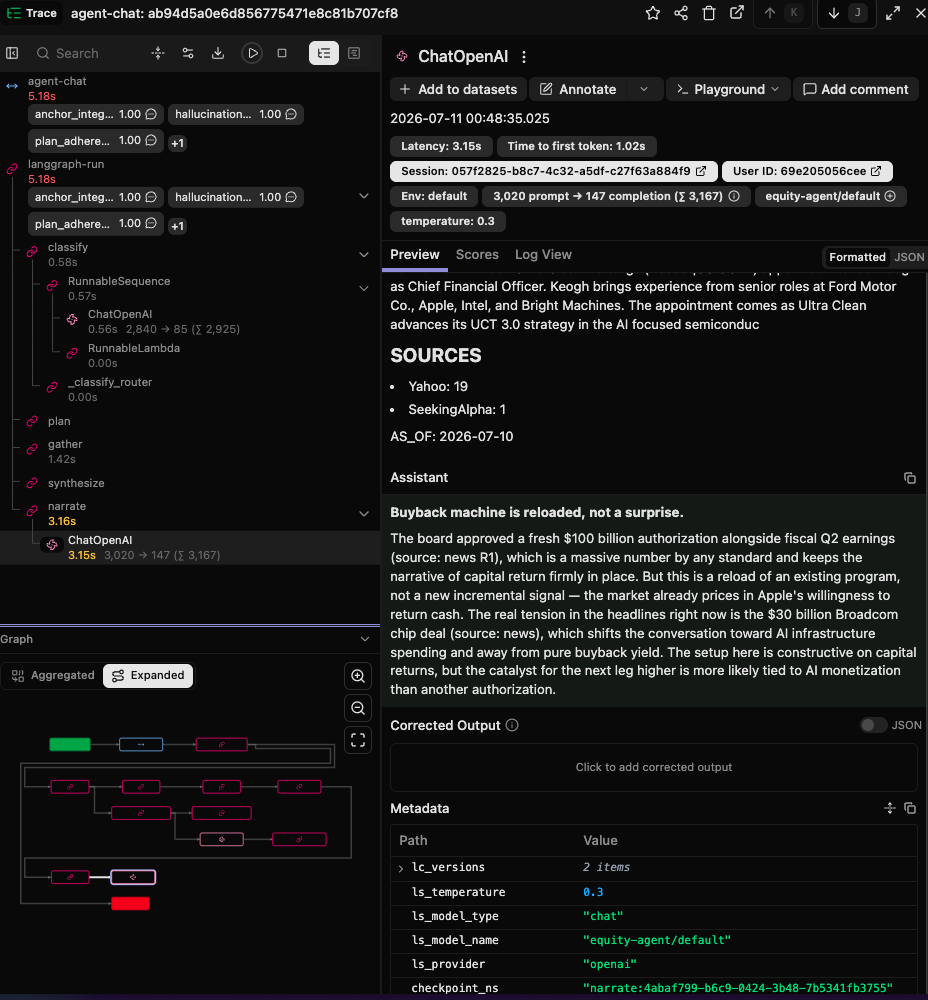
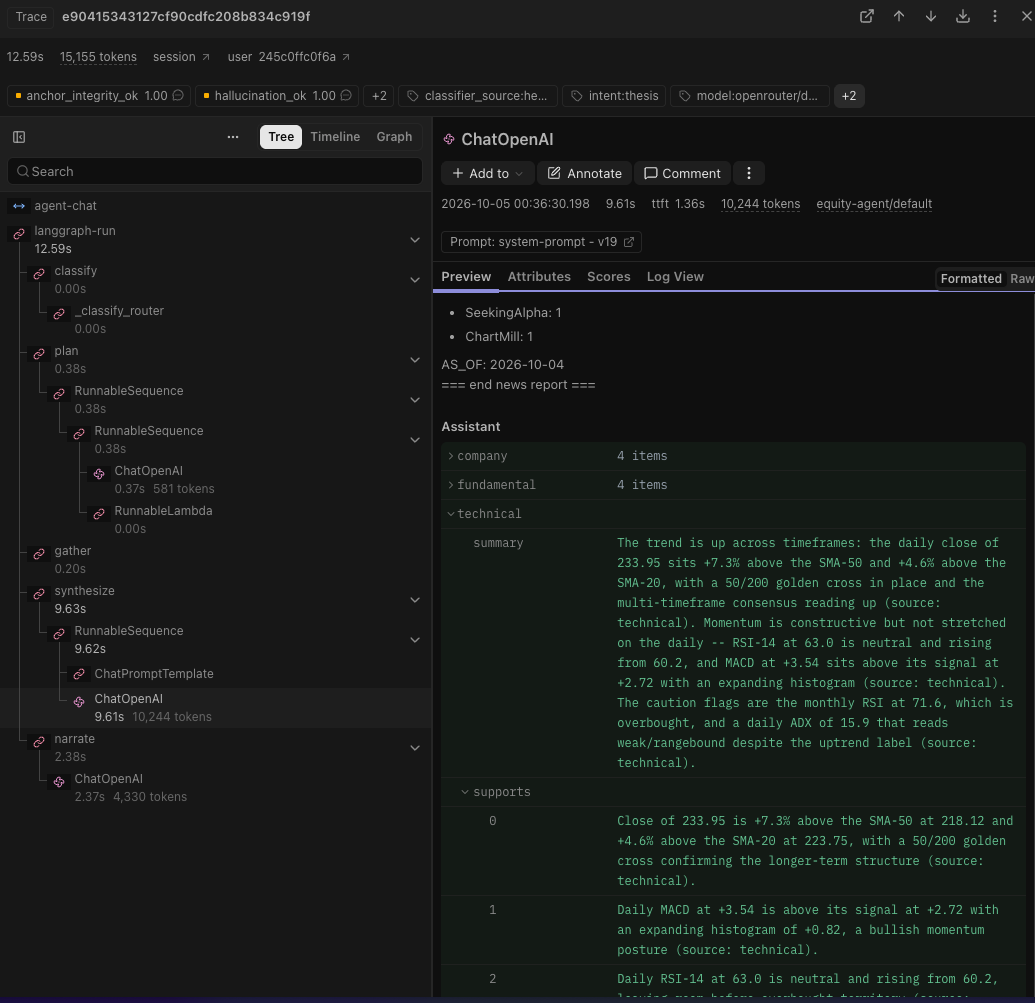
QNT-495: README polish -- drop count badges, latest bench link, Problems I Hit, refreshed screenshots (#606)
Follow-up to QNT-495 README refresh (#602).

- Remove static tests/ADR count badges (they drift); keep Live demo +
Prod live
- Benchmark link points to model-bench-2026-07 (April kept as earlier)
- New concise Problems I Hit section: silent OpenRouter fallback
(QNT-492), scorer false positive on glued units (QNT-255), dropped CD
push event caught by SHA gate (QNT-243)
- Bold the result in each AI Engineering bullet
- Retake terminal-live.png (panel now labels P/E TTM, matching the
thesis basis) and langfuse-trace.png (current DeepSeek + streaming
pipeline)

diff --git a/README.md b/README.md
@@ -3,8 +3,6 @@
 An equity research platform for 10 US tech stocks: a daily data pipeline, a research terminal (charts, technicals, fundamentals, news), and an AI analyst that writes investment theses **without being allowed to invent or calculate a single number**. The pipeline does all the math; the LLM only reasons over pre-computed reports, and an eval checks every number it outputs.
 
 [![Live demo](https://img.shields.io/badge/live%20demo-terminal.noahng.dev-success?style=for-the-badge)](https://terminal.noahng.dev)
-![Tests](https://img.shields.io/badge/tests-1700%2B%20passing-2ea44f)
-![ADRs](https://img.shields.io/badge/ADRs-28-1f6feb)
 ![Prod](https://img.shields.io/badge/prod-live-success)
 
 ![Equity Data Agent live terminal](docs/screenshots/terminal-live.png)
@@ -68,12 +66,12 @@ stateDiagram-v2
     narrate --> [*]: streamed to UI
 ```
 
-- **Routing.** `classify` sorts each question into 9 answer types. Ambiguous asks get a clarifying question instead of a guess; greetings and follow-ups skip data fetching entirely.
-- **RAG over news + SEC filings.** Hybrid search (vector + keyword) with reranking, triggered only for event questions (lawsuits, buybacks, M&A); sources stream to the UI.
-- **Streaming.** The answer card fills in field by field as it's written, so content appears about 2 seconds after the data is in, not after the whole answer.
-- **Memory.** A checkpointer keeps the conversation, so follow-ups reuse earlier reports instead of re-fetching.
-- **Evals in CI.** Every number traced back to a report, a 44-question regression set, retrieval quality metrics, and LLM-judged answer quality.
-- **Model routing + tracing.** LiteLLM routes to DeepSeek with prompt caching, a fallback chain, and a small model for routing steps. An hourly canary alerts if requests quietly fall back. Every request is traced in Langfuse. About $0.002 per thesis.
+- **Routing.** `classify` sorts each question into 9 answer types. Ambiguous asks get a **clarifying question instead of a guess**; greetings and follow-ups **skip data fetching entirely**.
+- **RAG over news + SEC filings.** Hybrid search (vector + keyword) with reranking, triggered only for event questions (lawsuits, buybacks, M&A); **retrieval MRR 0.94**.
+- **Streaming.** The answer card fills in field by field as it's written, so **content appears ~2 seconds after the data is in**, not after the whole answer.
+- **Memory.** A checkpointer keeps the conversation, so **follow-ups reuse earlier reports** instead of re-fetching.
+- **Evals in CI.** **Every number traced back to a report**, a 44-question regression set, retrieval quality metrics, and LLM-judged answer quality.
+- **Model routing + tracing.** LiteLLM routes to DeepSeek with prompt caching, a fallback chain, and a small model for routing steps. An hourly canary alerts if requests quietly fall back. Every request is traced in Langfuse. **About $0.002 per thesis.**
 
 ## Data Engineering
 
@@ -132,7 +130,13 @@ graph LR
 | Golden-set regression (correct tools / grounded answer) | 44 of 44 |
 | Retrieval: right source ranked first (MRR) | 0.94 |
 
-Full benchmark history: [`docs/model-bench-2026-04.md`](docs/model-bench-2026-04.md).
+Latest model benchmark: [`docs/model-bench-2026-07.md`](docs/model-bench-2026-07.md) (earlier: [2026-04](docs/model-bench-2026-04.md)).
+
+## Problems I Hit
+
+- **Green checks, wrong model.** A hidden LangChain parameter made OpenRouter filter out every provider, so LiteLLM silently served the fallback model with a 200. Fixed the parameter, and now every fallback fire raises a Sentry alert plus an hourly canary.
+- **The "hallucination" was the scorer's.** The eval flagged the agent for inventing numbers on news questions. The real cause: the scorer couldn't read `$2.5T` in the report, so the agent's correct "$2.5 trillion" looked unsupported. Fixed the scorer, not the prompt.
+- **A deploy that never ran.** A GitHub outage dropped the merge's push event: zero deploy runs, no red signal, prod one commit behind. Caught only because shipping asserts the running commit SHA on the server.
 
 ## Known Limits
 
